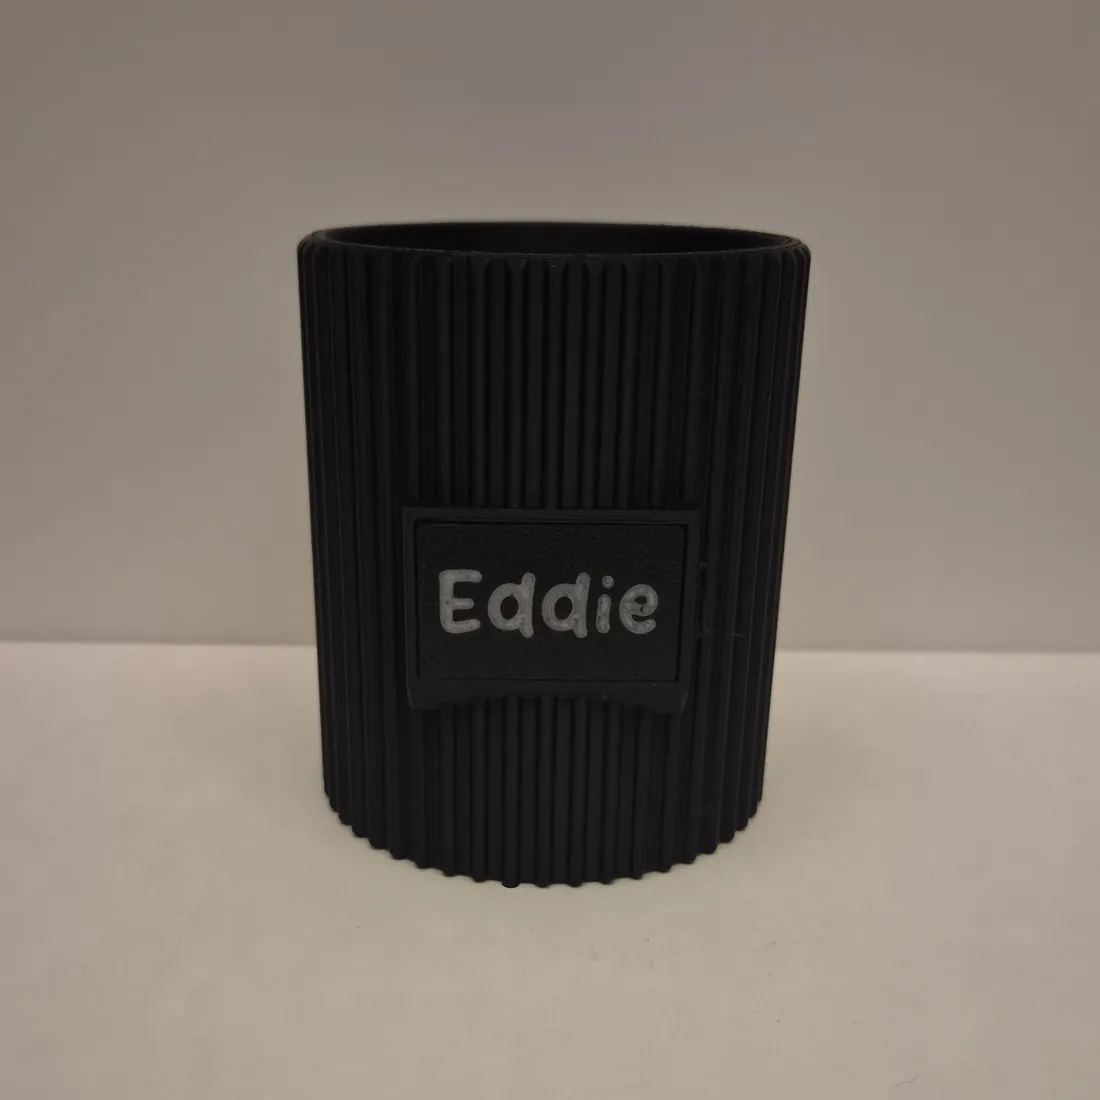
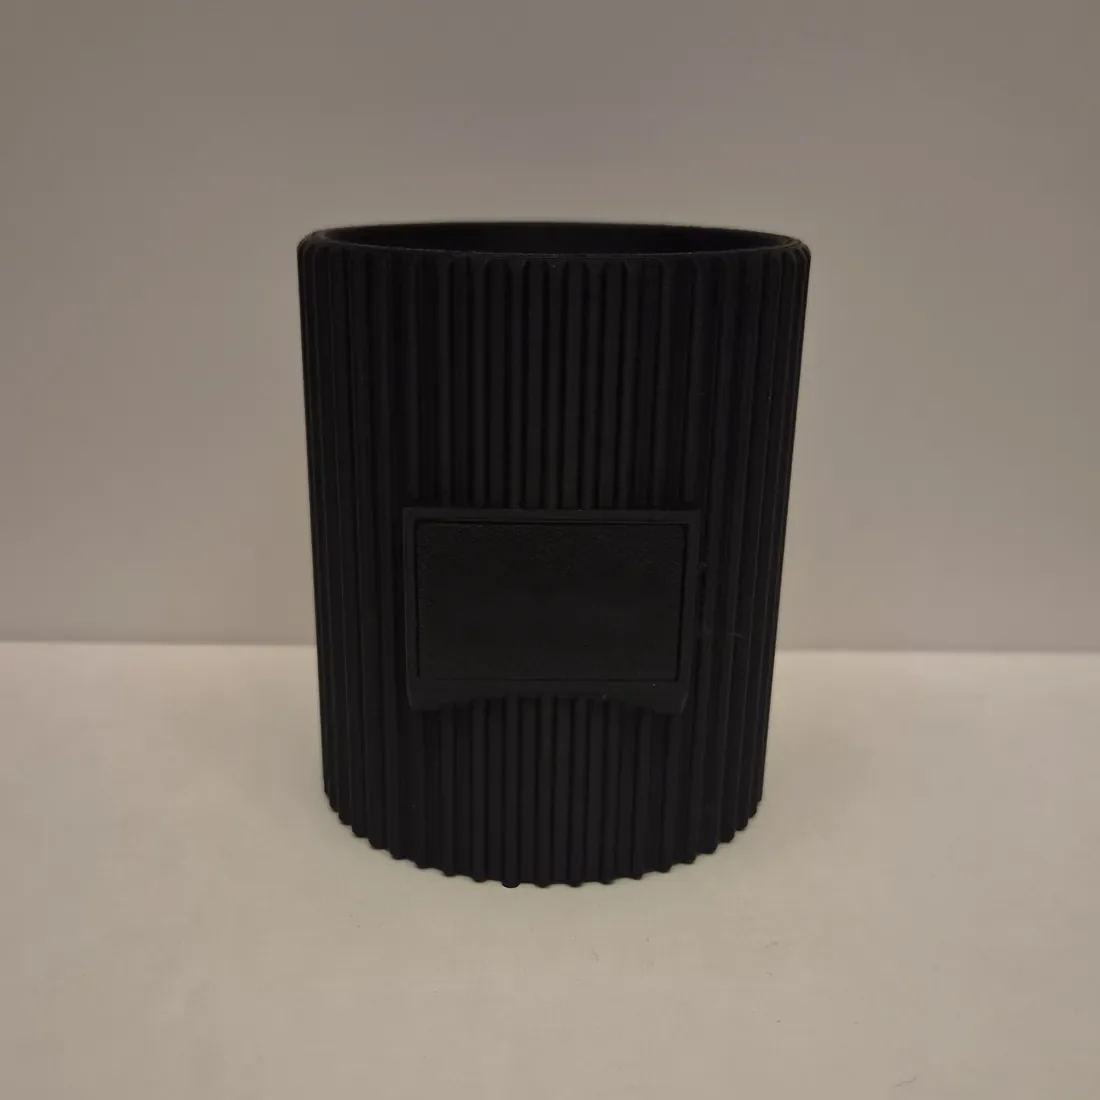
Stiftebecher: Text und Farben live auf dem echten Becherfoto (Namensfeld retuschiert), Passt-Prüfung für die Becherfläche
Claude-Session: https://claude.ai/code/session_01NrH9dGZGs97rj3EW7q6tPZ

Changed region(s): [[0.4018, 0.4945, 0.6182, 0.5873]]

diff --git a/components/shop/FotoGalerie.tsx b/components/shop/FotoGalerie.tsx
@@ -6,6 +6,7 @@ import { bereiten, umfaerben, zielFarben, type UmfaerbModus, type Vorbereitet } 
 import { LiveProductImage, useVorschauWerte } from "./Vorschau";
 import NamensschildAufdruck from "./NamensschildAufdruck";
 import UntersetzerAufdruck from "./UntersetzerAufdruck";
+import BecherAufdruck from "./BecherAufdruck";
 import { TEXTE } from "@/lib/shop/config";
 
 const GROESSE = 720; // Arbeitsauflösung des Umfärbens (Anzeige ca. 480 CSS-Pixel)
@@ -113,7 +114,7 @@ export default function FotoGalerie({ slug, form, grundfarbe, fotos, name }: { s
           {aktiv && (
             <canvas ref={canvas} className="shop-foto" width={GROESSE} height={GROESSE} role="img" aria-label={`${foto.alt}, in deiner gewählten Farbe`} style={zeigeCanvas ? undefined : { visibility: "hidden" }} />
           )}
-          {mitAufdruck && (slug === "namensschild" ? <NamensschildAufdruck w={w} /> : <UntersetzerAufdruck w={w} />)}
+          {mitAufdruck && (slug === "namensschild" ? <NamensschildAufdruck w={w} /> : slug === "stiftebecher-tasse" ? <BecherAufdruck w={w} /> : <UntersetzerAufdruck w={w} />)}
         </div>
       ) : (
         <LiveProductImage form={form} grundfarbe={grundfarbe} />
@@ -145,7 +146,7 @@ export default function FotoGalerie({ slug, form, grundfarbe, fotos, name }: { s
       <p className="shop-fotohinweis">
         {foto
           ? (mitAufdruck
-            ? (slug === "namensschild" ? "Vorschau: Dein Text und deine Farben auf dem Foto des Blanko-Schilds (bearbeitet). " : "Vorschau: Dein Text und deine Farben auf dem Foto des Untersetzers (bearbeitet). ")
+            ? (slug === "namensschild" ? "Vorschau: Dein Text und deine Farben auf dem Foto des Blanko-Schilds (bearbeitet). " : slug === "stiftebecher-tasse" ? "Vorschau: Dein Text und deine Farben auf dem Foto des Bechers (bearbeitet). " : "Vorschau: Dein Text und deine Farben auf dem Foto des Untersetzers (bearbeitet). ")
             : ohneUmfaerben ? "Foto: Beispielstück mit Kork (Option, siehe Auswahl). "
             : zeigeCanvas ? "Foto in deiner Farbe (bearbeitet). " : "Foto: Beispielstück. ")
           : "Vorschau (gezeichnet, kein Foto). "}

diff --git a/components/shop/ProductImage.tsx b/components/shop/ProductImage.tsx
@@ -1,5 +1,5 @@
 import type { Form } from "@/lib/shop/produkte";
-import { umbrechen, passtInFlaeche, FLAECHE_RUND, FLAECHE_UNTERSETZER, type Flaeche } from "@/lib/shop/umbruch";
+import { umbrechen, passtInFlaeche, FLAECHE_RUND, FLAECHE_UNTERSETZER, FLAECHE_BECHER, type Flaeche } from "@/lib/shop/umbruch";
 import { FETT_FAKTOR } from "@/lib/shop/schriften";
 import type { TextFormat } from "@/lib/shop/textformat";
 import NamensschildSvg from "./NamensschildSvg";
@@ -89,8 +89,8 @@ function Tasse({ c, text, family, format, tc: tcWahl }: { c: string; text?: stri
   const tc = tcWahl ?? textfarbeFuer(c);
   const t = (text ?? "Stifte").replace(/\n/g, " ");
   const fm = format?.fmt;
-  const fit = format && fm ? passtInFlaeche({ text: t, flaeche: FLAECHE_RUND, groesse: fm.groesse, breite: format.breite, fett: fm.fett[0] === true, fettFaktor: FETT_FAKTOR }) : null;
-  const u = fit?.passt ? fit : umbrechen(t, 44, fit ? fit.size : 12, 7, 2, 30);
+  const fit = format && fm ? passtInFlaeche({ text: t, flaeche: FLAECHE_BECHER, groesse: fm.groesse, breite: format.breite, fett: fm.fett[0] === true, fettFaktor: FETT_FAKTOR }) : null;
+  const u = fit?.passt ? fit : umbrechen(t, 44, fit ? fit.size : 9, 5.5, 2, 24);
   return (
     <g>
       <path d="M72 38 H82 a9 9 0 0 1 9 9 v12 a9 9 0 0 1 -9 9 H70" fill="none" stroke={c} strokeWidth="7" strokeLinecap="round" />

diff --git a/lib/shop/produkte.ts b/lib/shop/produkte.ts
@@ -31,7 +31,7 @@ zeile2". */
   /** Vorbelegter Text bei einzeiligen Artikeln (ohne `zeilen`). Der unveränderte Standardtext bleibt Standardware (Widerruf). */
   standardText?: string;
   /** Freie Textfläche des runden Artikels: Standard = Spruch-/Stiftetassen-Fläche, "untersetzer" = Mitte innerhalb der Zierlinien. */
-  flaeche?: "untersetzer";
+  flaeche?: "untersetzer" | "becher";
 }
 
 /** Fertige Farbkombination (statt Lagerfarb-Wahl). Erweiterbar: einfach einen Eintrag in KOMBI_WOCHENTAG ergaenzen. */
@@ -139,7 +139,7 @@ export const PRODUKTE: Produkt[] = [
       "Ein Stiftebecher in Tassenform mit Lamellenstruktur. Er hält Stifte, Pinsel oder Lineale ordentlich beisammen und sieht dabei aus wie dein Kaffee. Auf Wunsch mit einer Textzeile in einer von 25 Schriften; änderst du den Text, wird das Stück einzeln für dich gefertigt.",
     gruppe: "allgemein", kategorien: ["sonstiges"], form: "tasse", grundfarbe: "#6b4423",
     preisCent: 1290, masse: null, material: MATERIAL, optionen: [],
-    personalisierung: { maxLaenge: 14, label: "Text auf der Tasse", beispiel: "Stifte", standardSchrift: "montserrat" },
+    personalisierung: { maxLaenge: 14, label: "Text auf der Tasse", beispiel: "Stifte", standardSchrift: "montserrat", flaeche: "becher" },
     hinweise: [KEIN_SPIELZEUG],
   },
   {

diff --git a/components/shop/BecherAufdruck.tsx b/components/shop/BecherAufdruck.tsx
@@ -1,0 +1,25 @@
+"use client";
+import type { VorschauWerte } from "./Vorschau";
+import { RundText, textfarbeFuer } from "./ProductImage";
+import { FLAECHE_BECHER } from "@/lib/shop/umbruch";
+
+// Mitte des Namensfelds im Foto (public/shop/fotos/stiftebecher-tasse/1.webp, 1100-px-Bild); das Feld ist ca. 260 x 135 px groß.
+// 1 Einheit der Textfläche (FLAECHE_BECHER) = 5 px im Foto.
+const CX = 551, CY = 601, PX_JE_EINHEIT = 5;
+
+/** Legt den Wunschtext des Kunden (Schrift, Farbe, Fett/Kursiv, Größe wie in der Passt-Prüfung) in das Namensfeld des Becher-Fotos. */
+export default function BecherAufdruck({ w }: { w: VorschauWerte }) {
+  const schrift = w.textfarbe ?? textfarbeFuer(w.farbe ?? "#1c1c1c");
+  const text = (w.text ?? "").trim();
+  return (
+    <div aria-hidden="true" style={{ position: "absolute", inset: 0, pointerEvents: "none", overflow: "hidden" }}>
+      {text !== "" && (
+        <svg viewBox="0 0 1100 1100" width="100%" height="100%" style={{ display: "block" }}>
+          <g transform={`translate(${CX} ${CY}) scale(${PX_JE_EINHEIT}) translate(-50 -50)`}>
+            <RundText text={text} family={w.family} format={w.format} tc={schrift} flaeche={FLAECHE_BECHER} />
+          </g>
+        </svg>
+      )}
+    </div>
+  );
+}

diff --git a/lib/shop/fotos.ts b/lib/shop/fotos.ts
@@ -20,8 +20,9 @@ const ALT: Record<string, string[]> = {
     "Untersetzer Freitag: Endlich.",
     "Rückseite des Untersetzers mit selbstklebendem Kork (Option „Mit selbstklebendem Kork“)",
   ],
+  // Foto 1 = Becher mit leerem Namensfeld: Farben und Text deiner Wahl werden live daraufgelegt (components/shop/BecherAufdruck.tsx)
   "stiftebecher-tasse": [
-    "Stiftebecher in Tassenform mit Namensfeld, Vorderseite",
+    "Stiftebecher mit gerillter Wand und leerem Namensfeld, darauf dein Text und deine Farben (Vorschau)",
     "Stiftebecher in Tassenform mit Henkel von der Seite",
     "Stiftebecher mit Henkel, Schrägansicht",
     "Stiftebecher von oben",
@@ -111,7 +112,7 @@ export const OHNE_UMFAERBEN: Record<string, number[]> = {
 };
 
 /** Artikel, bei denen Foto 1 die Live-Vorschau ist: Farben und Text des Kunden werden direkt aufs Foto gelegt (kein extra „Deine Wahl Live“). */
-export const MIT_AUFDRUCK = ["namensschild", "spruch-untersetzer"];
+export const MIT_AUFDRUCK = ["namensschild", "spruch-untersetzer", "stiftebecher-tasse"];
 
 /** Einzel-Untersetzer: gewählter Wochentag (Kürzel aus ProductBuy) -> Fotonummer (0-basiert). */
 export const TAG_FOTO: Record<string, number> = { Mo: 0, Di: 1, Mi: 2, Do: 3, Fr: 4 };

diff --git a/lib/shop/textformat.ts b/lib/shop/textformat.ts
@@ -10,7 +10,7 @@ import type { Schrift } from "./schriften";
 import { FETT_FAKTOR } from "./schriften";
 import { NS, NS_BREITE, kappeJeEm } from "./namensschild";
 import {
-  FLAECHE_RUND, FLAECHE_UNTERSETZER, FLAECHE_SCHILD, FLAECHE_SCHILD_KLEIN, GROESSEN, STANDARD_GROESSE, istGroesseId, passtInFlaeche,
+  FLAECHE_RUND, FLAECHE_UNTERSETZER, FLAECHE_BECHER, FLAECHE_SCHILD, FLAECHE_SCHILD_KLEIN, GROESSEN, STANDARD_GROESSE, istGroesseId, passtInFlaeche,
   type Flaeche, type GroesseId,
 } from "./umbruch";
 
@@ -57,7 +57,7 @@ export function zeilenAnzahl(pers: Personalisierung): number {
 
 /** Fläche je Zeile: Tischschild = [klein, groß], sonst [rund]. */
 export function flaechen(pers: Personalisierung): Flaeche[] {
-  return pers.zeilen ? [FLAECHE_SCHILD_KLEIN, FLAECHE_SCHILD] : [pers.flaeche === "untersetzer" ? FLAECHE_UNTERSETZER : FLAECHE_RUND];
+  return pers.zeilen ? [FLAECHE_SCHILD_KLEIN, FLAECHE_SCHILD] : [pers.flaeche === "untersetzer" ? FLAECHE_UNTERSETZER : pers.flaeche === "becher" ? FLAECHE_BECHER : FLAECHE_RUND];
 }
 
 /** Fähigkeiten verletzt? (Fett/Kursiv gewählt, obwohl die Schrift den Schnitt nicht hat.) */

diff --git a/components/shop/ProductBuy.tsx b/components/shop/ProductBuy.tsx
@@ -28,7 +28,7 @@ export default function ProductBuy({
   produkt, farben, bestellbar, preisText, wunschPause = false,
 }: { produkt: Produkt; farben: Farbe[]; bestellbar: boolean; preisText: string; wunschPause?: boolean }) {
   const kombis = produkt.kombinationen;
-  const [farbeId, setFarbeId] = useState<string | null>(kombis || produkt.teile ? null : (produkt.linienfarbe ? farben.find((f) => /^schwarz/i.test(f.name.trim())) : undefined)?.id ?? farben[0]?.id ?? null);
+  const [farbeId, setFarbeId] = useState<string | null>(kombis || produkt.teile ? null : (produkt.linienfarbe || produkt.personalisierung?.flaeche === "becher" ? farben.find((f) => /^schwarz/i.test(f.name.trim())) : undefined)?.id ?? farben[0]?.id ?? null);
   const [kombiId, setKombiId] = useState<string | null>(kombis?.[0].id ?? null);
   const kombi = kombis?.find((k) => k.id === kombiId);
   // Mehrteilige Artikel (Kürbis-Laterne): je Teil eine eigene Lagerfarbe, Standard = ähnlichste Farbe zur Referenz (orange / grün).

diff --git a/lib/shop/umbruch.ts b/lib/shop/umbruch.ts
@@ -54,6 +54,8 @@ export interface Flaeche {
 export const FLAECHE_RUND: Flaeche = { breite: 46, hoehe: 40, maxZeilen: 4, groessen: { s: 6.5, m: 9, l: 11.5, xl: 14 } };
 /** Individueller Untersetzer: freie Mitte innerhalb der Zierlinien (Linien bei ca. 90 % des Radius), bis 3 Zeilen. */
 export const FLAECHE_UNTERSETZER: Flaeche = { breite: 52, hoehe: 34, maxZeilen: 3, groessen: { s: 6.5, m: 9, l: 11.5, xl: 14 } };
+/** Stiftebecher: Namensfeld (Foto: ca. 260 x 135 px, 1 Einheit = 5 px), Text mit Rand darin, bis 2 Zeilen. */
+export const FLAECHE_BECHER: Flaeche = { breite: 48, hoehe: 24, maxZeilen: 2, groessen: { s: 5.5, m: 8, l: 10.5, xl: 13 } };
 /** Tischschild, große Zeile in der Mitte (bis 3 Zeilen). */
 export const FLAECHE_SCHILD: Flaeche = { breite: 70, hoehe: 30, maxZeilen: 3, groessen: { s: 8, m: 14, l: 17, xl: 20 } };
 /** Tischschild, kleine Zeile oben links: eine Zeile, feste Größe (Format Fett/Kursiv gilt trotzdem). */

diff --git a/tests/shop/echtpasst.test.ts b/tests/shop/echtpasst.test.ts
@@ -37,5 +37,5 @@ test("Tasse: Zeile, die die Schaetzung besteht, aber real zu breit ist, wird abg
   assert.equal(echtPasst(tasse, ["Stifte"], schrift, { ...f, groesse: "l" }, breit)?.passt, false);
   assert.equal(echtPasst(tasse, ["Stifte"], schrift, { ...f, groesse: "s" }, breit)?.passt, true);
   const g = groessteDiePasst(tasse, ["Stifte"], schrift, f, (gr) => echtPasst(tasse, ["Stifte"], schrift, { ...f, groesse: gr }, breit)?.passt !== false);
-  assert.equal(g, "s");
+  assert.equal(g, "m");
 });
